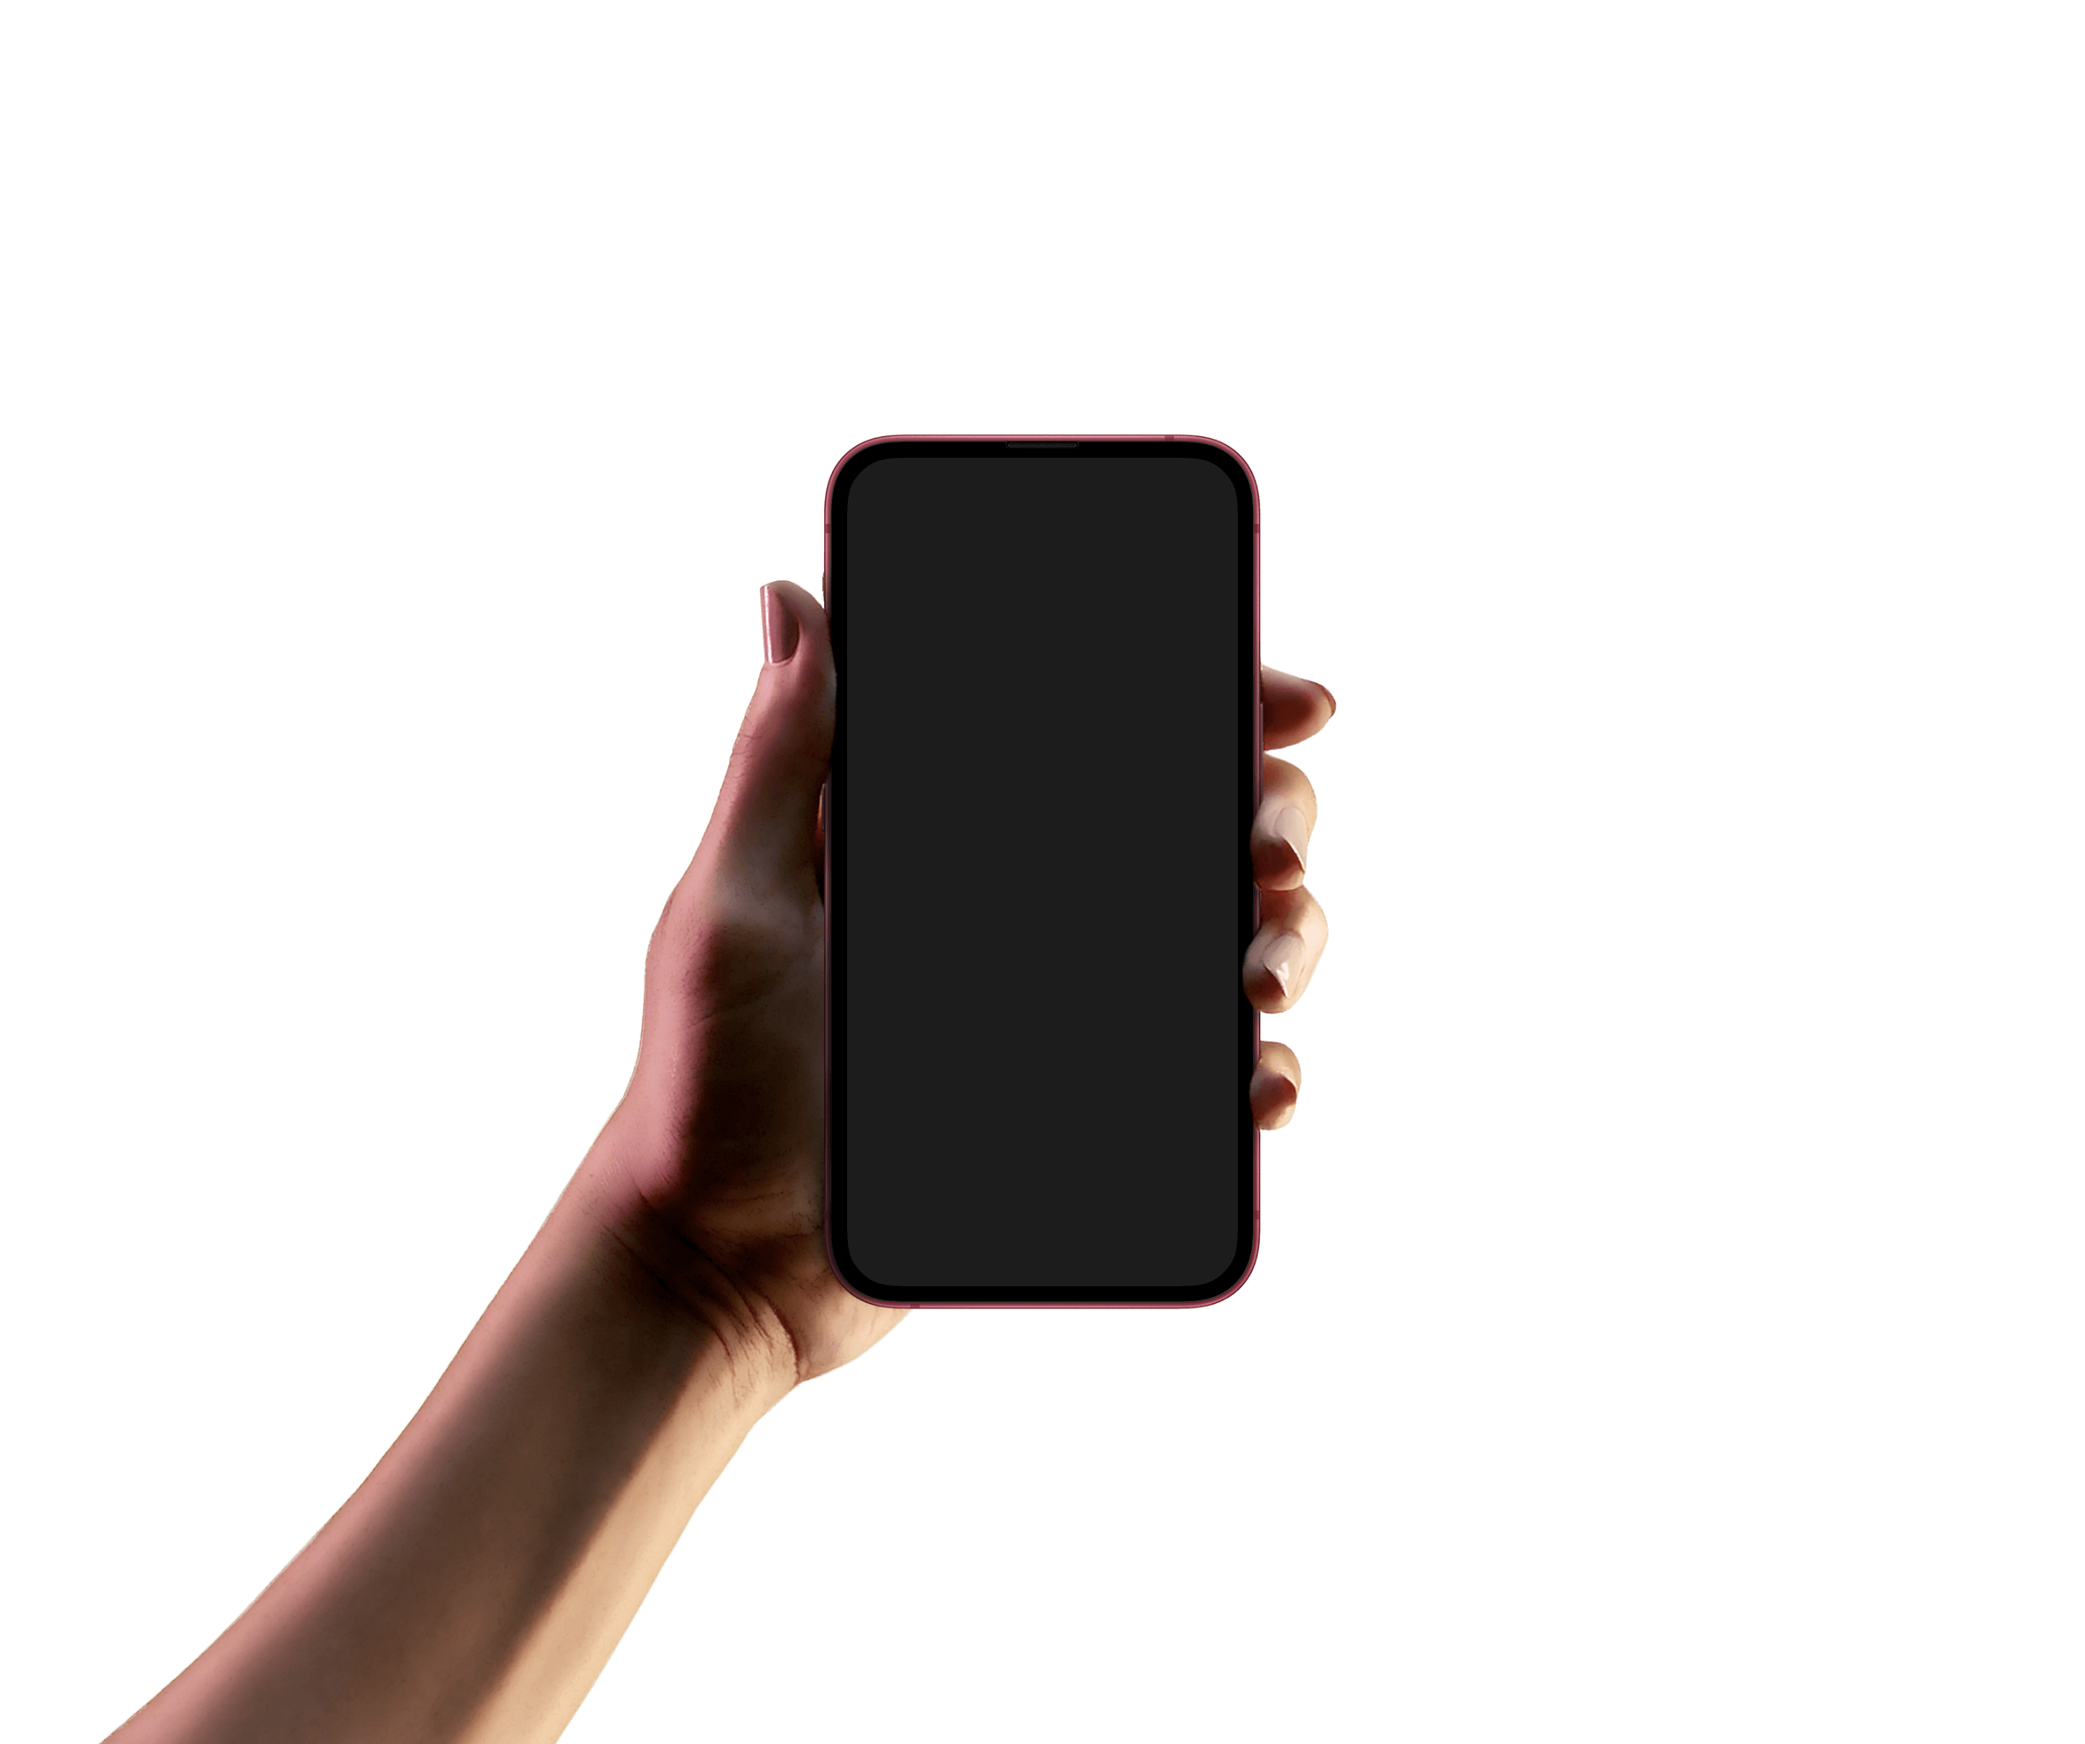
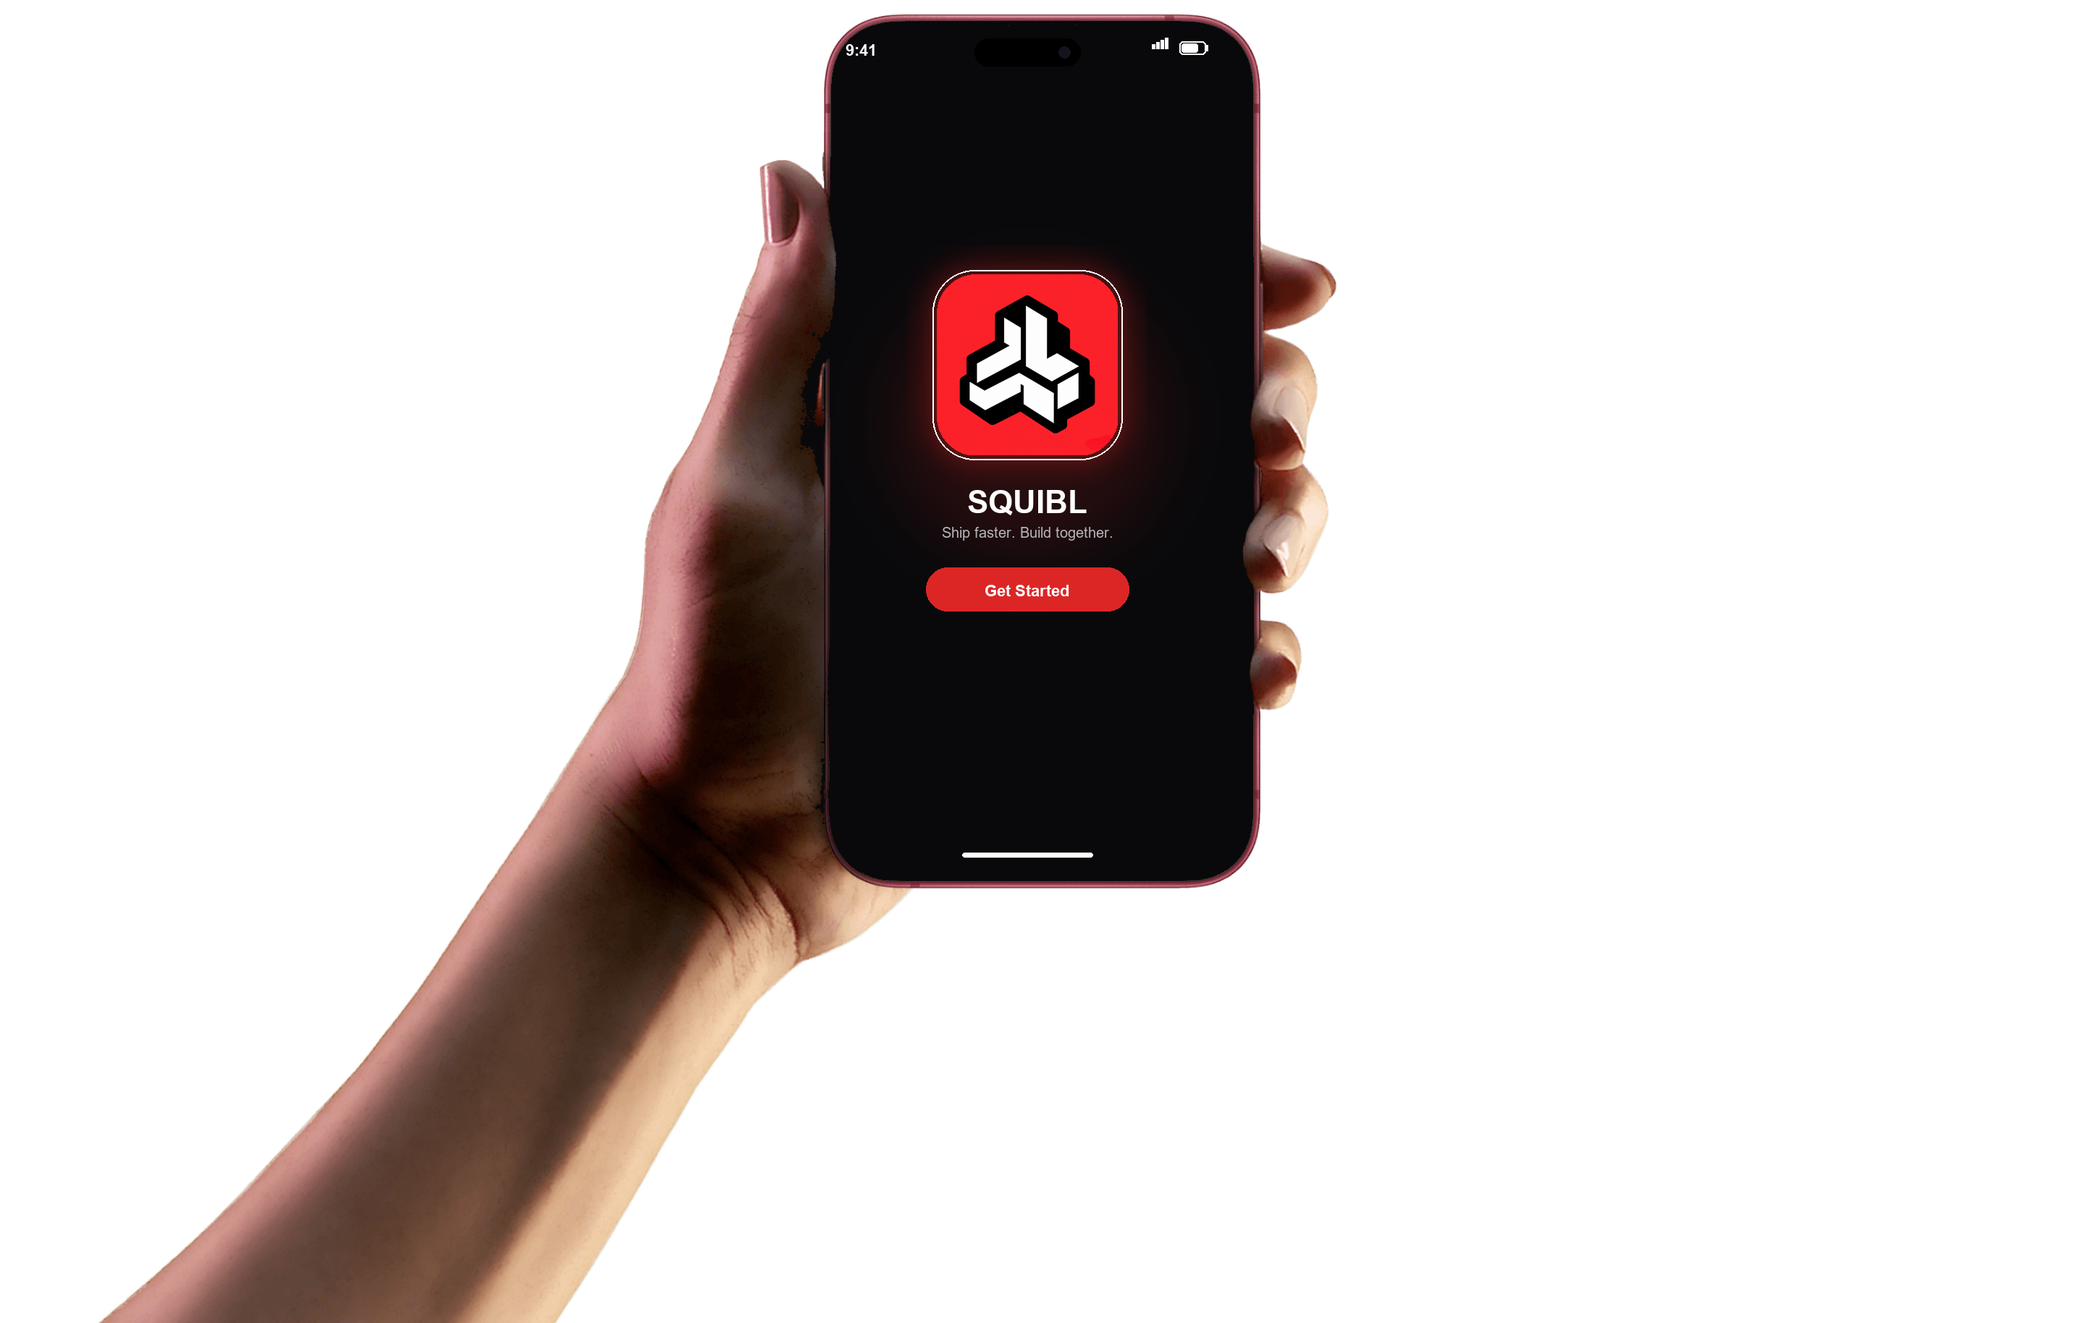
feat: fit hand iphone preview to viewport and add squibl branding to screen

Changed region(s): [[0.0625, 0.0, 0.6562, 0.9978]]

diff --git a/frontend/components/landing/unique-effects-section.tsx b/frontend/components/landing/unique-effects-section.tsx
@@ -10,11 +10,11 @@ export function UniqueEffectsSection({}: UniqueEffectsSectionProps) {
   return (
     <section
       id="mobile-app"
-      className="relative w-full bg-white text-neutral-900 overflow-hidden font-sans pt-8 sm:pt-12 lg:pt-14 pb-16 sm:pb-24 lg:pb-28"
+      className="relative w-full bg-white text-neutral-900 overflow-hidden font-sans pt-8 sm:pt-12 lg:pt-14 pb-8 sm:pb-12 lg:pb-16"
     >
       <div className="max-w-[1440px] mx-auto px-6 sm:px-10 lg:px-16 relative z-10 flex flex-col items-center">
         {/* Top Header Row inside Section (matching reference composition) */}
-        <div className="w-full flex items-center justify-between mb-6 sm:mb-12">
+        <div className="w-full flex items-center justify-between mb-4 sm:mb-8">
           {/* Top Left: Editorial Brand Typography */}
           <div className="flex items-center gap-2 select-none">
             <span className="font-serif italic text-2xl sm:text-3xl lg:text-4xl font-bold tracking-tight text-neutral-950 font-display">
@@ -40,16 +40,16 @@ export function UniqueEffectsSection({}: UniqueEffectsSectionProps) {
 
         {/* Center Visual: Large Hand holding iPhone */}
         <motion.div
-          initial={{ opacity: 0, y: 30, scale: 0.97 }}
+          initial={{ opacity: 0, y: 20, scale: 0.98 }}
           whileInView={{ opacity: 1, y: 0, scale: 1 }}
           viewport={{ once: true, margin: "-10%" }}
           transition={{ duration: 0.8, ease: [0.16, 1, 0.3, 1] }}
-          className="w-full flex items-center justify-center relative py-4 sm:py-8 lg:py-10"
+          className="w-full flex items-center justify-center relative pt-2 sm:pt-4 pb-0"
         >
           <img
-            src="/hand-iphone.png"
+            src="/hand-iphone.png?v=2"
             alt="Squibl Mobile App Preview"
-            className="w-auto max-w-full h-auto max-h-[560px] sm:max-h-[680px] lg:max-h-[820px] object-contain select-none pointer-events-none drop-shadow-xl"
+            className="w-auto max-w-full h-auto max-h-[480px] sm:max-h-[540px] lg:max-h-[620px] object-contain select-none pointer-events-none drop-shadow-2xl"
           />
         </motion.div>
       </div>
